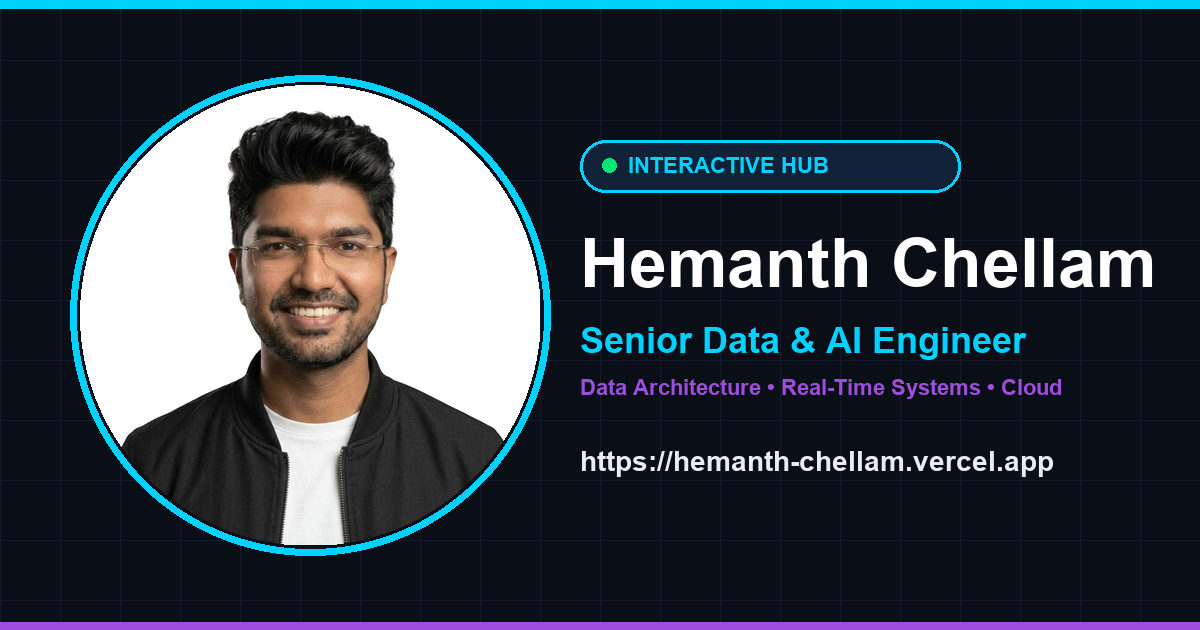
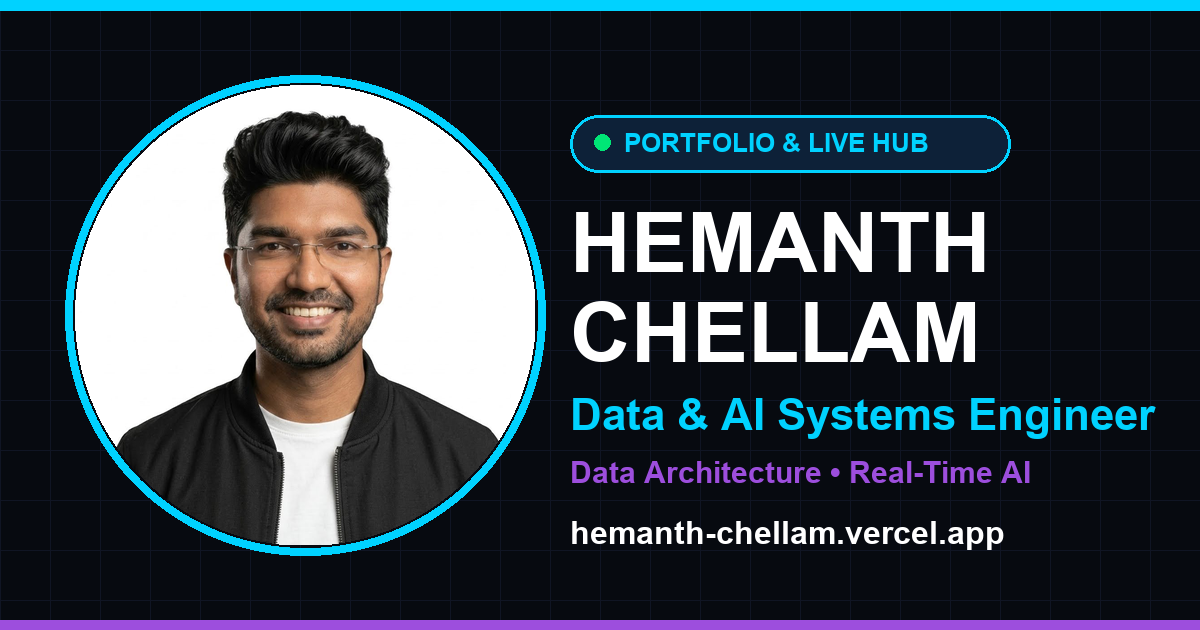
Boost thumbnail text contrast and font weight for razor-sharp LinkedIn mobile preview

diff --git a/index.html b/index.html
@@ -26,8 +26,8 @@
     <meta property="og:url" content="https://hemanth-chellam.vercel.app/">
     <meta property="og:title" content="Hemanth Chellam | Senior Data & AI Systems Engineer">
     <meta property="og:description" content="Official engineering portfolio of Hemanth Chellam. Specializing in Lakehouse architectures, real-time telemetry, and enterprise AI implementations.">
-    <meta property="og:image" content="https://hemanth-chellam.vercel.app/og-preview.png">
-    <meta property="og:image:secure_url" content="https://hemanth-chellam.vercel.app/og-preview.png">
+    <meta property="og:image" content="https://hemanth-chellam.vercel.app/og-preview.png?v=2">
+    <meta property="og:image:secure_url" content="https://hemanth-chellam.vercel.app/og-preview.png?v=2">
     <meta property="og:image:type" content="image/png">
     <meta property="og:image:width" content="1200">
     <meta property="og:image:height" content="630">
@@ -38,7 +38,7 @@
     <meta name="twitter:url" content="https://hemanth-chellam.vercel.app/">
     <meta name="twitter:title" content="Hemanth Chellam | Senior Data & AI Systems Engineer">
     <meta name="twitter:description" content="Official engineering portfolio of Hemanth Chellam. Specializing in Lakehouse architectures, real-time telemetry, and enterprise AI implementations.">
-    <meta name="twitter:image" content="https://hemanth-chellam.vercel.app/og-preview.png">
+    <meta name="twitter:image" content="https://hemanth-chellam.vercel.app/og-preview.png?v=2">
 
     <!-- Structured Data (JSON-LD): Google Knowledge Graph & Person Entity -->
     <script type="application/ld+json">

diff --git a/portfolio-hub/index.html b/portfolio-hub/index.html
@@ -26,8 +26,8 @@
     <meta property="og:url" content="https://hemanth-chellam.vercel.app/">
     <meta property="og:title" content="Hemanth Chellam | Senior Data & AI Systems Engineer">
     <meta property="og:description" content="Official engineering portfolio of Hemanth Chellam. Specializing in Lakehouse architectures, real-time telemetry, and enterprise AI implementations.">
-    <meta property="og:image" content="https://hemanth-chellam.vercel.app/og-preview.png">
-    <meta property="og:image:secure_url" content="https://hemanth-chellam.vercel.app/og-preview.png">
+    <meta property="og:image" content="https://hemanth-chellam.vercel.app/og-preview.png?v=2">
+    <meta property="og:image:secure_url" content="https://hemanth-chellam.vercel.app/og-preview.png?v=2">
     <meta property="og:image:type" content="image/png">
     <meta property="og:image:width" content="1200">
     <meta property="og:image:height" content="630">
@@ -38,7 +38,7 @@
     <meta name="twitter:url" content="https://hemanth-chellam.vercel.app/">
     <meta name="twitter:title" content="Hemanth Chellam | Senior Data & AI Systems Engineer">
     <meta name="twitter:description" content="Official engineering portfolio of Hemanth Chellam. Specializing in Lakehouse architectures, real-time telemetry, and enterprise AI implementations.">
-    <meta name="twitter:image" content="https://hemanth-chellam.vercel.app/og-preview.png">
+    <meta name="twitter:image" content="https://hemanth-chellam.vercel.app/og-preview.png?v=2">
 
     <!-- Structured Data (JSON-LD): Google Knowledge Graph & Person Entity -->
     <script type="application/ld+json">
